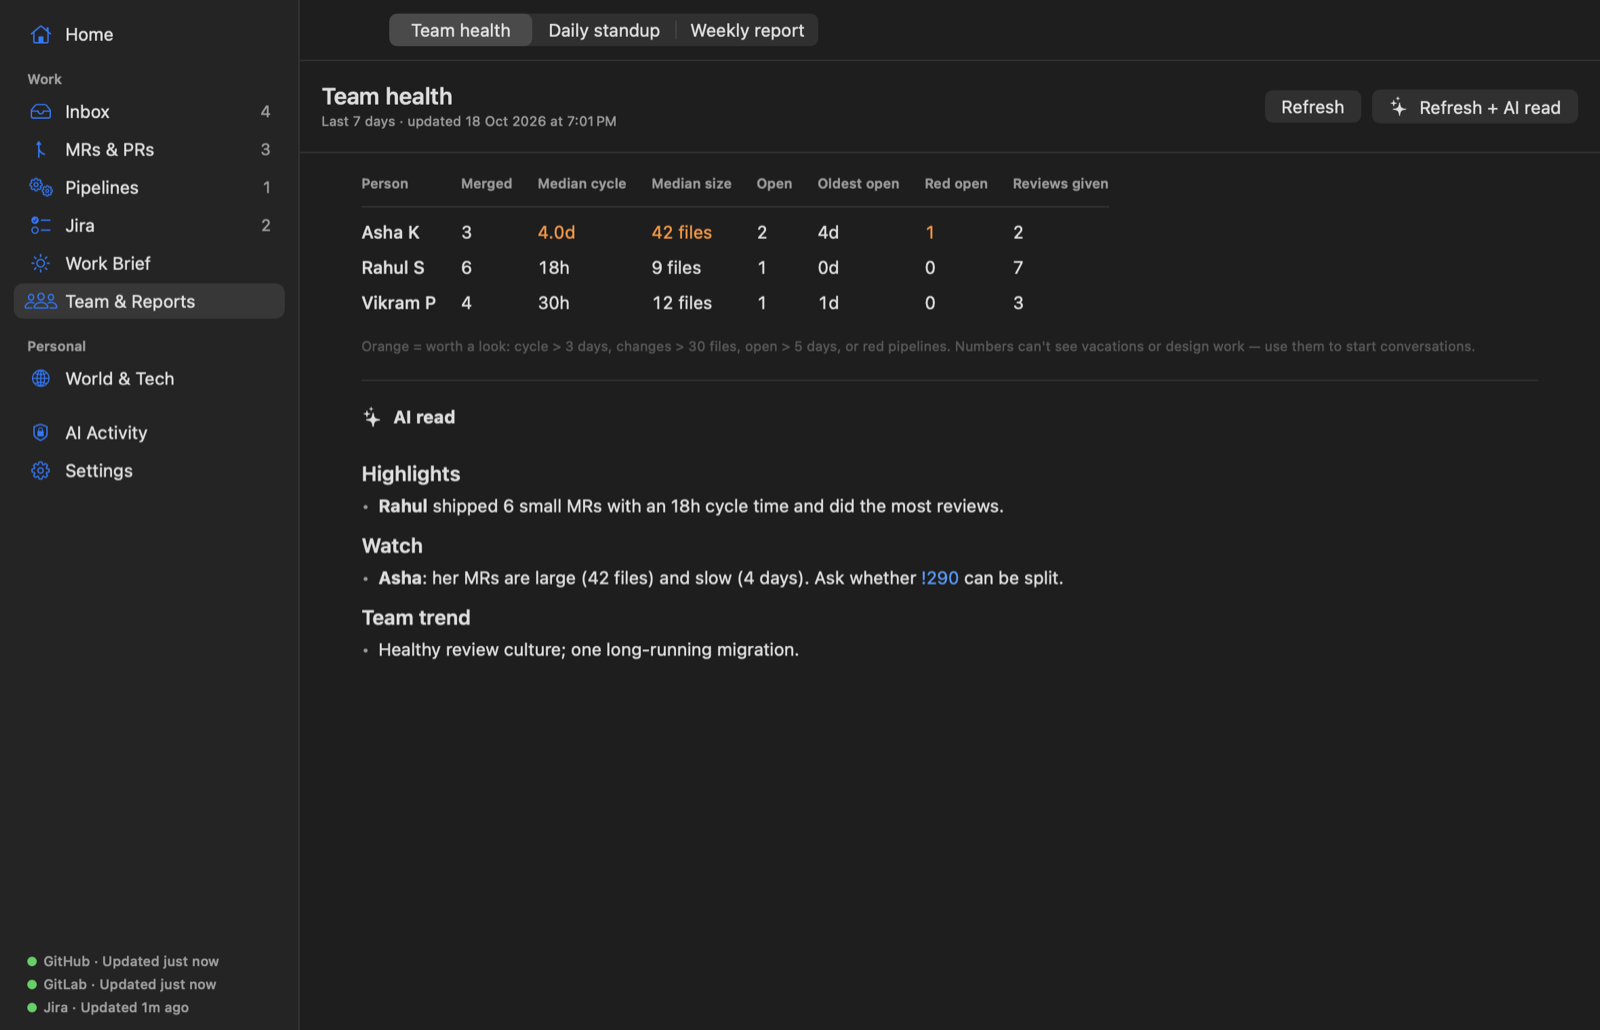
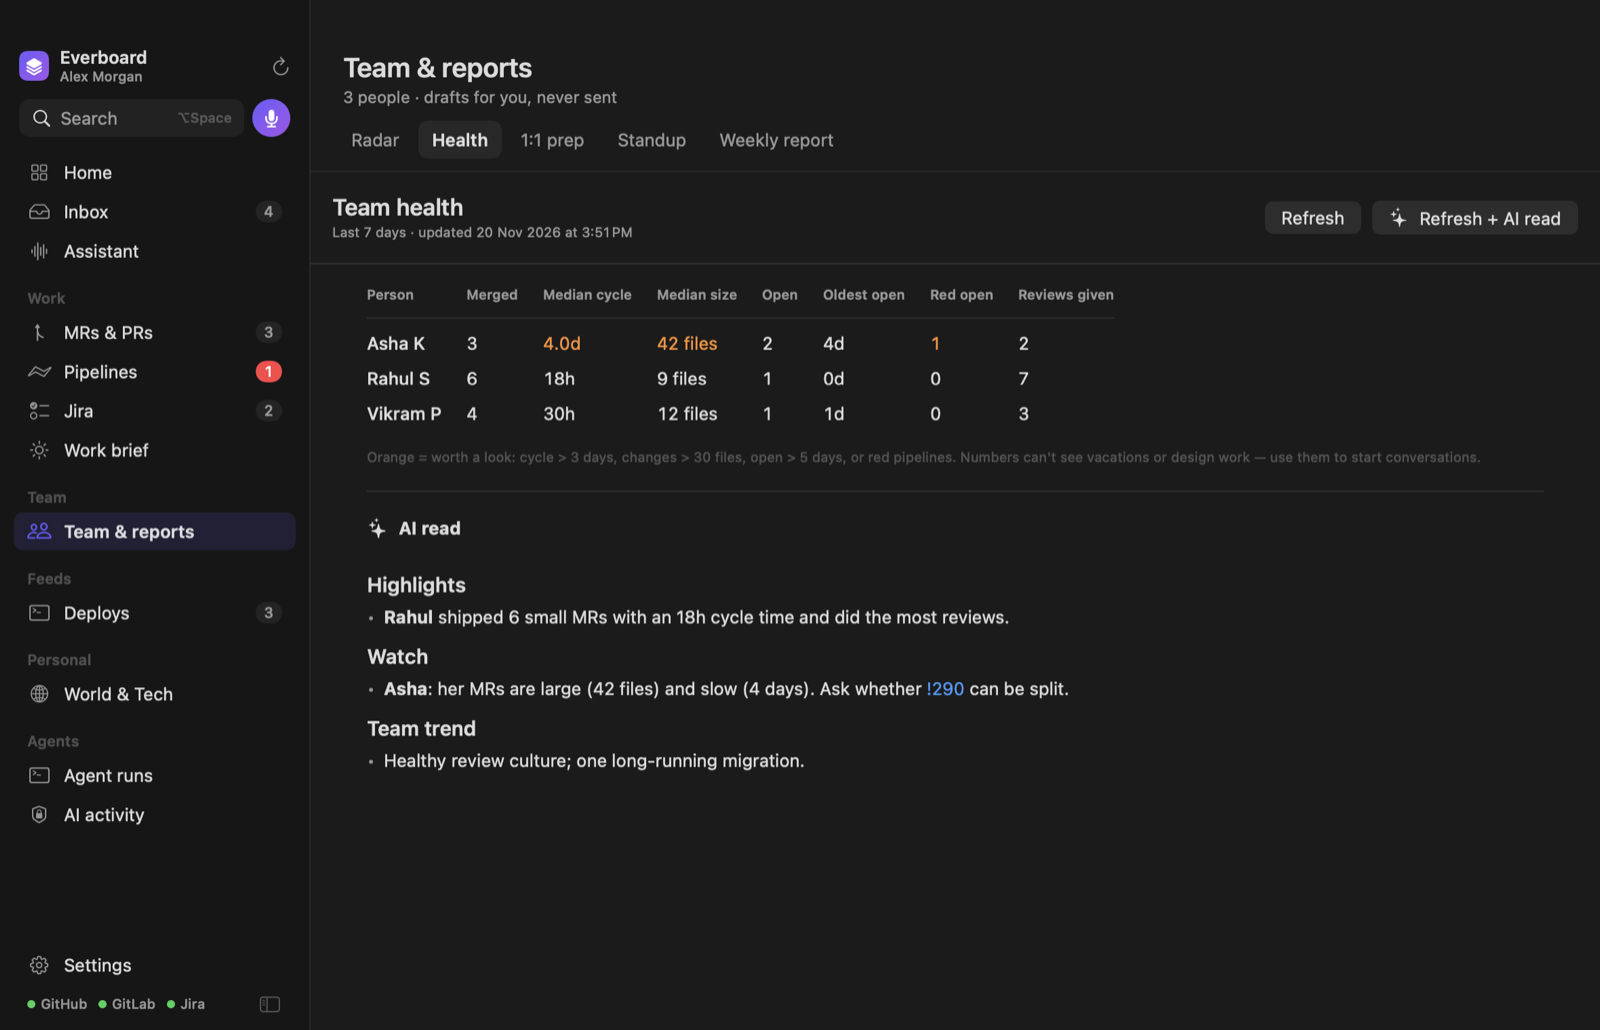
docs: refresh screenshots for the redesign and fix stale menu bar docs

diff --git a/Sources/EverboardMac/DemoData.swift b/Sources/EverboardMac/DemoData.swift
@@ -34,7 +34,8 @@ enum DemoData {
     static var config: AppConfig {
         var c = AppConfig()
         c.reportees = [Reportee(email: "asha@example.com", username: "asha", githubUsername: "asha-k", name: "Asha K"),
-                       Reportee(email: "vikram@example.com", username: "vik", name: "Vikram P")]
+                       Reportee(email: "vikram@example.com", username: "vik", name: "Vikram P"),
+                       Reportee(email: "rahul@example.com", username: "rahul", name: "Rahul S")]
         c.jiraFilters = [JiraFilterConfig(id: "10042", name: "Sprint board")]
         c.pinnedProjects = ["acme/payments-api", "https://github.com/acme-oss/sdk-swift"]
         c.launchAtLogin = false

diff --git a/README.md b/README.md
@@ -6,7 +6,7 @@ I built it as the one app I keep open all day: one place to see my own work, my 
 
 <picture>
   <source media="(prefers-color-scheme: dark)" srcset="docs/screenshots/dark/home.png">
-  <img alt="Everboard home: greeting, review queue, failed pipelines, Jira, today's meetings and team status" src="docs/screenshots/light/home.png">
+  <img alt="Everboard home: sidebar, ask bar, counts, what needs you, the work brief, meetings and team" src="docs/screenshots/light/home.png">
 </picture>
 
 <sub>Screenshots use the built-in demo data (`--demo`), not real accounts.</sub>
@@ -22,8 +22,8 @@ I built it as the one app I keep open all day: one place to see my own work, my 
 - **Notifications that respect your focus:** CI failures, new changes from your team, mentions and Jira updates. Low-priority ones are batched, and alerts stay quiet during meetings.
 
 <picture>
-  <source media="(prefers-color-scheme: dark)" srcset="docs/screenshots/dark/mrs.png">
-  <img alt="Merge and pull requests from GitLab and GitHub in one review queue" src="docs/screenshots/light/mrs.png">
+  <source media="(prefers-color-scheme: dark)" srcset="docs/screenshots/dark/peek.png">
+  <img alt="Merge and pull requests from GitLab and GitHub in one keyboard-first list, with a peek panel for details and actions" src="docs/screenshots/light/peek.png">
 </picture>
 
 ### Team health and reports, written for you
@@ -41,6 +41,11 @@ Per-person metrics (cycle time, change size, stuck work, reviews given) and a **
 - **Agent actions:** right-click any MR, PR, pipeline or issue to run your own CLI agent on it, such as `claude -p "/deep-review {url}"` or `cursor-agent …`. You see the command first and the output streams in. Every run is kept, and nothing is ever posted for you.
 - **Feeds without code:** point Everboard at a script that prints JSON, or a folder of markdown notes, and it becomes a feed with notifications.
 - **A markdown brain:** optionally write the work brief, team digest, 1:1 prep, weekly draft and agent runs into an Obsidian-style folder (frontmatter, `[[links]]`) without ever touching what you wrote yourself.
+
+<picture>
+  <source media="(prefers-color-scheme: dark)" srcset="docs/screenshots/dark/assistant-panel.png">
+  <img alt="The Assistant's floating panel: ask what needs you, or tell an agent what to run" src="docs/screenshots/light/assistant-panel.png" width="600">
+</picture>
 
 ### A morning brief that tells you what matters
 
@@ -78,10 +83,10 @@ A personal **World & Tech brief**: Claude picks the stories that matter from wor
 
 <picture>
   <source media="(prefers-color-scheme: dark)" srcset="docs/screenshots/dark/menubar.png">
-  <img alt="Menu bar popover with meetings and recent notifications" src="docs/screenshots/light/menubar.png" width="360">
+  <img alt="Menu bar popover with the ask bar, counts, meetings and recent notifications" src="docs/screenshots/light/menubar.png" width="360">
 </picture>
 
-The **menu bar** shows your next meetings and latest notifications at a glance.
+The **menu bar** shows what's waiting, your next meetings and the latest notifications, with the Assistant one click away.
 
 </td>
 </tr>

diff --git a/docs/features.md b/docs/features.md
@@ -2,17 +2,19 @@
 
 ## Menu bar
 
-The grid icon shows:
+The stacked-layers icon shows:
 - your **unread count**
 - your **next meeting**, if it starts within the hour (e.g. `· in 12m: Standup`)
 - a filled icon when a source is unhealthy, such as the VPN being down or a token having expired
 
 Clicking the icon opens a popover with:
-- a status chip for each source
+- a health dot for each source, plus Refresh, Open dashboard and Settings
+- **Ask your agents** (⌥⇧Space), which opens the Assistant's floating panel
+- counts for reviews, failed pipelines, Jira and unread; click one to jump there
 - today's upcoming meetings, each with **Join** and ✨ **Prep** buttons
-- the 8 latest events; click one to open it
-- shortcuts to the Dashboard, Work brief, Reports and World & Tech, plus **Search ⌥Space**
+- the 6 latest events; click one to open it
 - "N batched notifications — show now" when some are being held
+- links to the Work brief, Team and **Search ⌥Space**
 
 ## Dashboard window
 
@@ -20,7 +22,7 @@ Open it from the menu, from the Dock while it's open, by launching the app again
 
 **Home.** A greeting with what's waiting and your next meeting; an **ask bar** for the Assistant with a few suggestions; counts for reviews, your open changes, failed pipelines, Jira and unread (click one to jump there); then **Needs you**, the work brief, recent agent runs and activity, with today's meetings, your team, Jira, news and AI use on the side. On narrow windows the two columns stack.
 
-**Menu bar and Dock.** The menu-bar popover has the ask bar, the four counts, today's meetings, the latest activity and quick links. While the dashboard is open the Dock icon shows your unread count, and right-clicking it offers Ask, Inbox, Reviews, failed Pipelines, Work brief, Team, Search and Refresh.
+**Dock.** While the dashboard is open the Dock icon shows your unread count, and right-clicking it offers Ask, Inbox, Reviews, failed Pipelines, Work brief, Team, Search and Refresh.
 
 **Layout.** A sidebar on the left (Home, Inbox, Assistant; Work; Team; Feeds; Personal; Agents; Settings at the bottom, with a dot per source showing its health), the page in the middle, and a **peek panel** on the right for whatever you select. ⌘\ collapses the sidebar to icons. The search box and mic at the top of the sidebar open the command palette and the Assistant.
 
@@ -94,7 +96,7 @@ MR references (`group/project!123`, and `!123` when it matches one known MR) and
 
 ## Agent actions
 
-Run your own CLI agent on any MR, PR, pipeline, Jira issue, to-do or feed item from its right-click menu (or the terminal button in the Pipelines and Jira tables). Each action is a command template you define in **Settings → Agents**, for example:
+Run your own CLI agent on any MR, PR, pipeline, Jira issue, to-do or feed item from its right-click menu, its peek panel, or the hover actions on its row. Each action is a command template you define in **Settings → Agents**, for example:
 
 ```sh
 claude -p "/deep-review {url}"

diff --git a/docs/swift-primer.md b/docs/swift-primer.md
@@ -156,10 +156,9 @@ That's the whole "framework" you need to follow.
 - The dashboard is an AppKit `NSWindow` hosting SwiftUI (`NSHostingView`). That lets notifications open it from anywhere.
 - AppKit is the older macOS UI framework. Everboard uses it where SwiftUI has no equivalent: panels, the activation policy, opening URLs.
 
-### Lists, tables, sheets
+### Lists and sheets
 ```swift
-List(items) { MRRow(item: $0) }                              // scrolling list
-Table(sorted) { TableColumn("Status") { StatusPill(text: $0.status ?? "?") } }
+ScrollView { LazyVStack { ForEach(items) { Row(item: $0) } } } // scrolling list, rows built on demand
 .sheet(item: $model.aiPanel) { AIPanelSheet(panel: $0) }     // modal shown when non-nil
 .contextMenu { Button("Approve…") { … } }                    // right-click menu
 ```
